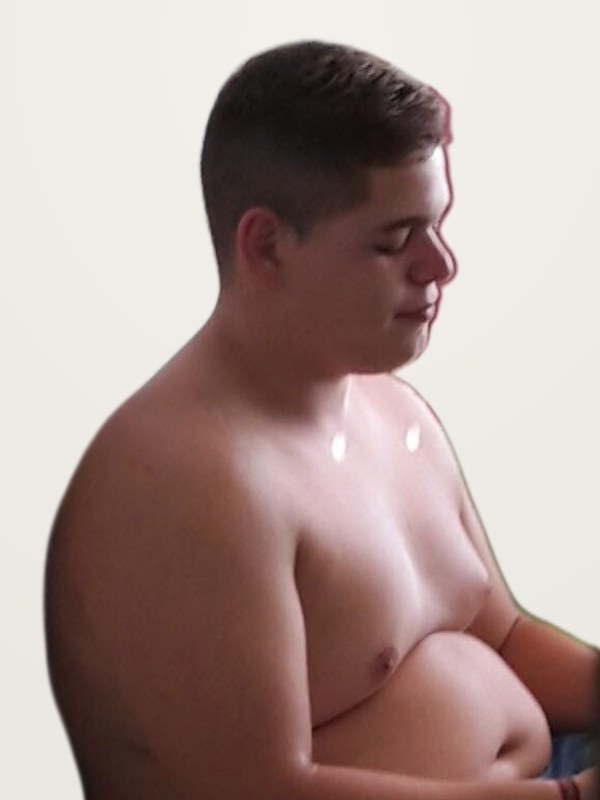
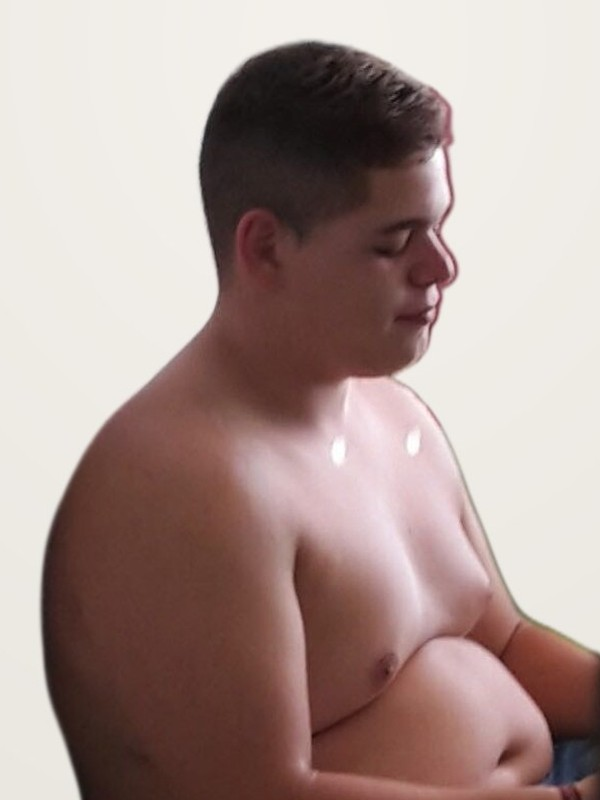
Mon histoire : montage évolutif aligné (têtes, axe, échelle) + frise 120 → 80 kg
Claude-Session: https://claude.ai/code/session_01TNZou17PAtRdp5XEVVXTNX

diff --git a/index.html b/index.html
@@ -321,6 +321,28 @@ footer p{margin:6px 0}
  .sbar a{background:var(--blue);color:#fff;text-decoration:none;font-weight:700;font-size:14.5px;padding:13px 16px;border-radius:12px;white-space:nowrap}
 }
 </style>
+<style id="evo-montage">
+/* Montage évolutif : une seule bande alignée */
+.trio{gap:0!important;border-radius:26px;box-shadow:0 30px 60px -24px rgba(14,23,38,.45);margin-bottom:96px!important;background:#EFECE6}
+.trio figure{border-radius:0!important;box-shadow:none!important;overflow:hidden!important}
+.trio figure:first-child{border-radius:26px 0 0 26px!important}
+.trio figure:nth-child(3){border-radius:0 26px 26px 0!important}
+.trio figure+figure{border-left:3px solid var(--cream)}
+.trio img{border-radius:0!important;aspect-ratio:3/4;object-fit:cover;display:block}
+.trio figure:nth-child(1) img{filter:saturate(.75) brightness(.97)}
+.trio figure:nth-child(2) img{filter:saturate(.9)}
+.trio figure::before{content:"";position:absolute;inset:auto 0 0 0;height:30%;background:linear-gradient(transparent,rgba(14,23,38,.35));z-index:1;pointer-events:none}
+.trio figure:nth-child(-n+2)::after{display:none!important}
+.trio figcaption{top:auto!important;bottom:12px!important;z-index:2;background:rgba(255,255,255,.95)!important}
+.trio .evo{grid-column:1/-1;position:absolute;left:16.66%;right:16.66%;bottom:-46px;height:6px;border-radius:6px;background:linear-gradient(90deg,#B9B2A8,var(--blue));display:flex;justify-content:space-between;align-items:center}
+.trio .evo .d0,.trio .evo .d2{position:relative;font-size:13px;font-weight:800;color:var(--soft);white-space:nowrap;transform:translateX(-50%)}
+.trio .evo .d2{transform:translateX(50%);color:var(--blue)}
+.trio .evo .d0::before,.trio .evo .d2::before{content:"";position:absolute;left:50%;top:-22px;width:16px;height:16px;margin-left:-8px;border-radius:50%;background:#B9B2A8;border:3px solid var(--cream)}
+.trio .evo .d2::before{background:var(--blue)}
+.trio .evo .d0,.trio .evo .d2{top:22px}
+.trio .evo .big40{position:static!important;transform:none!important;font-size:clamp(22px,3.4vw,34px)!important;padding:8px 22px!important}
+@media(max-width:780px){.trio{border-radius:18px}.trio figure:first-child{border-radius:18px 0 0 18px!important}.trio figure:nth-child(3){border-radius:0 18px 18px 0!important}.trio figure+figure{border-left-width:2px}.trio figcaption{font-size:10px!important;padding:4px 8px!important;bottom:8px!important;letter-spacing:.3px}.trio .evo{bottom:-40px}.trio .evo .d0,.trio .evo .d2{font-size:12px}.trio{margin-bottom:84px!important}}
+</style>
 </head>
 <body>
 <!-- 1. HERO -->
@@ -434,7 +456,7 @@ footer p{margin:6px 0}
       <figure><img src="img/bruno-avant.jpg" alt="Bruno avant, en obésité"><figcaption>Avant</figcaption></figure>
       <figure><img src="img/bruno-pendant.jpg" alt="Bruno pendant sa transformation"><figcaption>Pendant</figcaption></figure>
       <figure><img src="img/bruno-apres.jpg" alt="Bruno aujourd'hui"><figcaption>Aujourd'hui</figcaption></figure>
-      <span class="big40">−40 kg</span>
+      <div class="evo"><span class="d0">120 kg</span><span class="big40">−40 kg</span><span class="d2">80 kg</span></div>
     </div>
     <div class="textcard" style="text-align:left">
       <p>Je m'appelle Bruno, je suis <b>nutritionniste diplômé (TCMA Genève)</b> et coach en ligne. Le sport et la nutrition sont aujourd'hui au centre de ma vie. Mais ça n'a pas toujours été le cas.</p>
